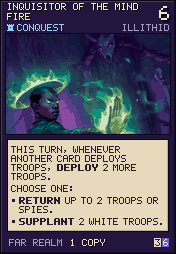
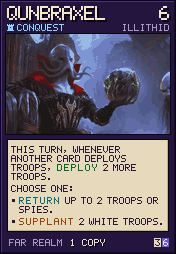
Stage NE-57: apply Qunbraxel, Zargon and Hazlik replacements

diff --git a/hs_unity/CARD_MAP.md b/hs_unity/CARD_MAP.md
@@ -275,13 +275,13 @@ S'theno, Neptulon TID, Neeru, Al'Akir NEW1 заменены свежими).
 | Карта (id) | Легендарка HS (id) | Префаб эффекта | Почему |
 |---|---|---|---|
 | Githyanki Knight (50014) | Lothraxion the Redeemed (DMF_240) | `DMFFX_Lothraxion_CustomSummon.prefab` | астральный рыцарь |
-| Greater Star Spawn Emissary (50001) | Sargeras, the Destroyer (TTN_960) | `TTNFX_SargerasTheDestroyer_CustomSummon.prefab` | СДЕЛАНО (HsFx-79; владелец выбрал в HsBrowser 2026-10-27) |
+| Zargon the Returner (50001) | — | — | NE-57: owner-approved creature replacement; no HS animation assigned. Previous binding freed (Greater Star Spawn Emissary). |
 | Froghemoth Elder (50002) | The Exodar (GDB_120) | `GDBFX_TheExodar_CustomSummon.prefab` | СДЕЛАНО (HsFx-79; владелец выбрал в HsBrowser 2026-10-27) |
 | Feyr (50003) | — | — | NE-56: owner-selected creature replacement; no HS animation assigned. Previous binding freed. |
 | Cthulhu (50004) | — | — | NE-56: owner-selected creature replacement; no HS animation assigned. Previous binding freed. |
 | Red Slaad (50012) | Blood-Queen Lana'thel (CORE_ICC_841) | `BloodQueenLanathel_CustomSummon.prefab` | СДЕЛАНО (HsFx-78; владелец выбрал в HsBrowser 2026-10-27) |
-| Inquisitor of the Mind Fire (50006) | Archwitch Willow (CORE_SCH_181) | `SCHFX_ArchwitchWillow_CustomSummon.prefab` | СДЕЛАНО (HsFx-79; владелец выбрал в HsBrowser 2026-10-27) |
-| Groundling Stalker (50007) | Overlord Drakuru (RLK_913) | `RLKFX_Drakuru_CustomSummon.prefab` | СДЕЛАНО (HsFx-79; владелец выбрал в HsBrowser 2026-10-27) |
+| Qunbraxel (50006) | — | — | NE-57: owner-approved creature replacement; no HS animation assigned. Previous binding freed (Inquisitor of the Mind Fire). |
+| Hazlik (50007) | — | — | NE-57: owner-approved creature replacement; no HS animation assigned. Previous binding freed (Groundling Stalker). |
 | Eye Monger (50008) | The 8 Hands From Beyond (GDB_477) | `GDBFX_8HandsFromBeyond_CustomSummon.prefab` | СДЕЛАНО (HsFx-79; владелец выбрал в HsBrowser 2026-10-27) |
 
 ### ixtal

diff --git a/Codex outputs/far_ne57.md b/Codex outputs/far_ne57.md
@@ -1,0 +1,13 @@
+# Stage NE-57: apply the original Far Realm gallery
+
+| Card ID | Previous creature | New creature | Cost | Copies |
+|---|---|---|---|---|
+| 50006 | Inquisitor of the Mind Fire | Qunbraxel | 6 | 1 |
+| 50001 | Greater Star Spawn Emissary | Zargon the Returner | 7 | 1 |
+| 50007 | Groundling Stalker | Hazlik | 7 | 1 |
+
+The owner pointed out that the original three gallery choices were still missing after NE-56; this stage applies them to the originally proposed slots. All NE-55/56 replacements and the Red Slaad move remain in place. Names, English/Russian labels, art and miniature framing are updated. Card-slot abilities, costs, aspects, VP and half-deck copies are unchanged. Original D&D Beyond sources and framing: far_ne57_changes.json. Zargon shares GREAT OLD ONE with Cthulhu in Far Realm; Qunbraxel is ILLITHID, Hazlik is HUMAN.
+
+Old creature HS bindings are freed: Sargeras, Archwitch Willow and Overlord Drakuru. The three replacements have no assigned HS animation. Baked effects remain available. The local untracked hs_assign.tsv and ignored port_queue.tsv are updated but excluded from the commit. Unrelated owner miniature changes are preserved and excluded from the commit.
+
+Validation: core tests 2270 passed, 0 failed; final three-card localization 2315 checks, 0 failed. Data invariants confirm unchanged rules, costs, aspects, VP, copies and all unrelated card identities. Unique names across the full catalog and unrelated owner miniature coordinates verified. English and Russian full faces and miniatures visually reviewed.
